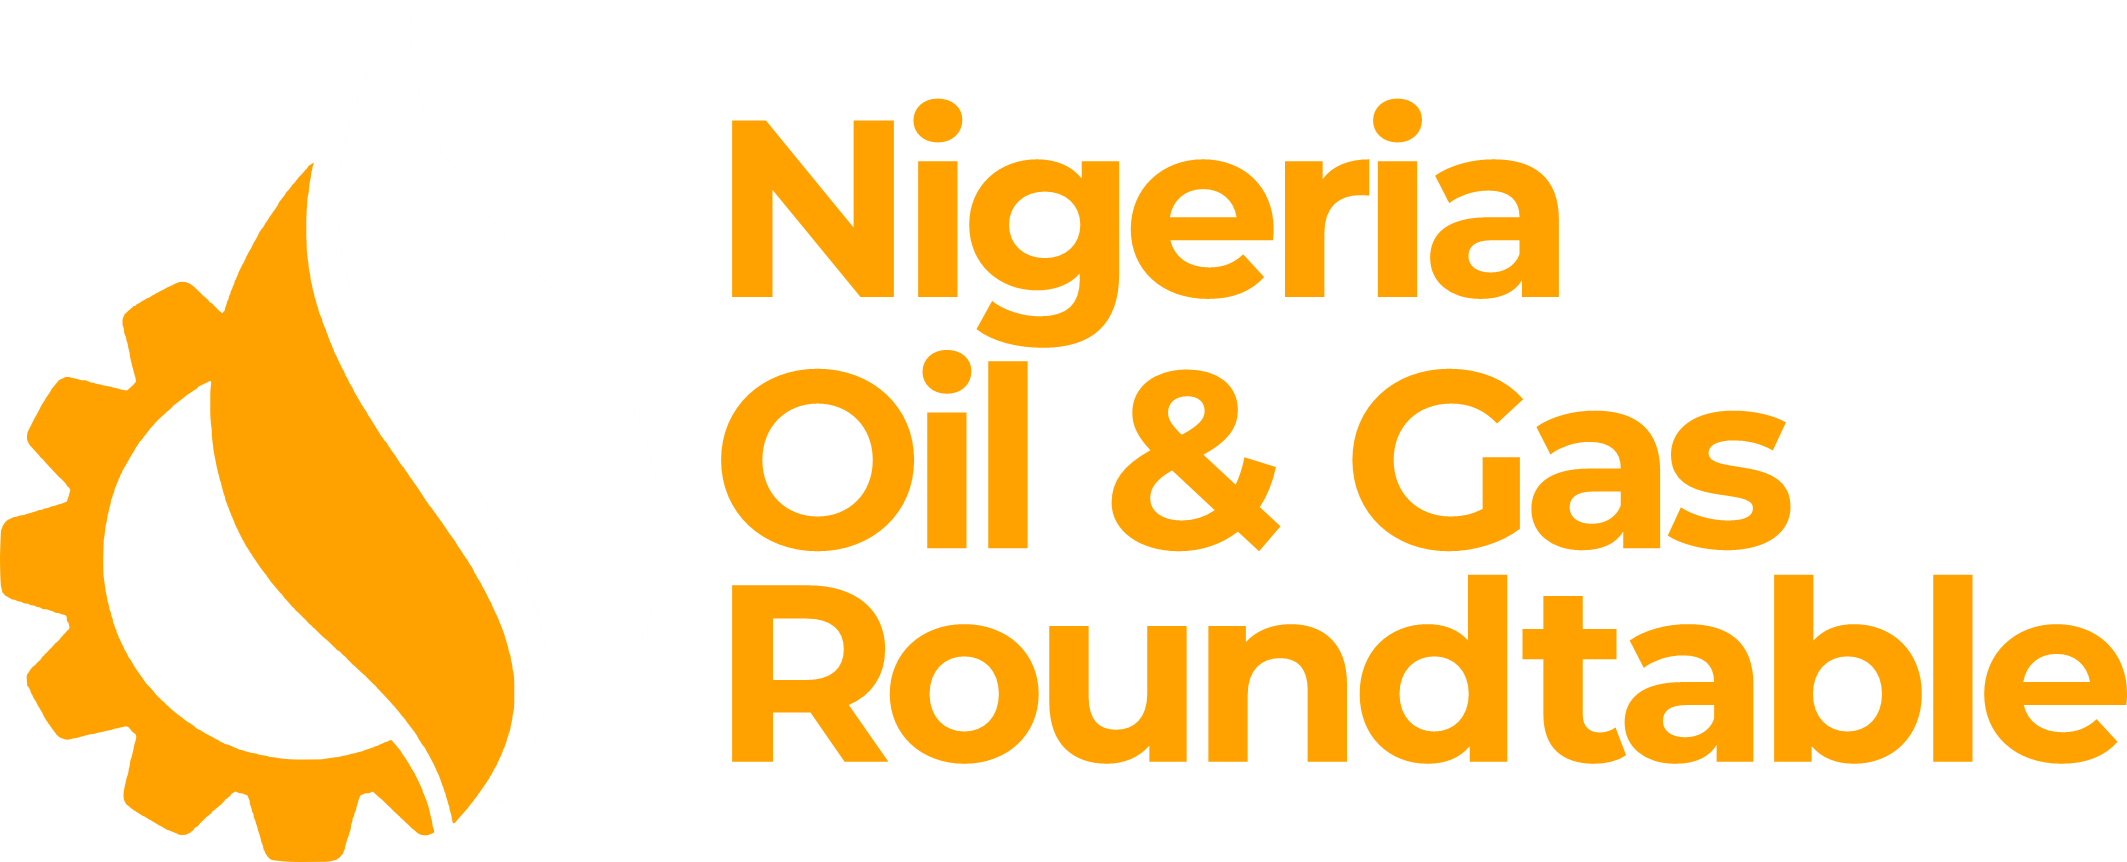
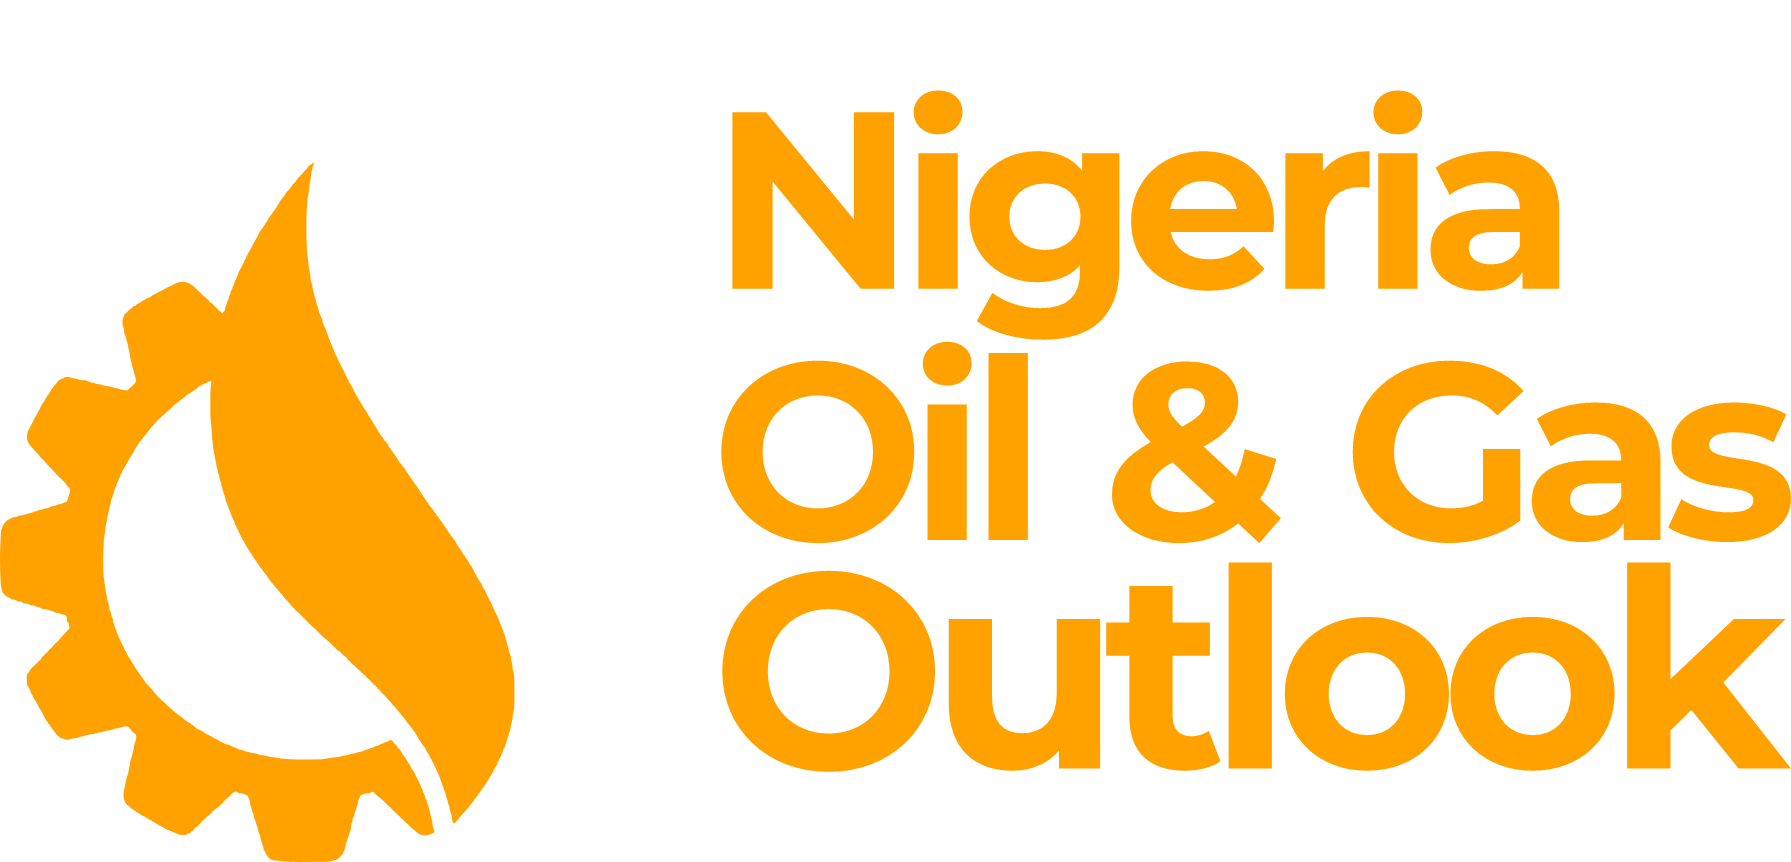
Edited title

diff --git a/index.html b/index.html
@@ -6,7 +6,7 @@
       name="viewport"
       content="width=device-width, initial-scale=1, shrink-to-fit=no"
     />
-    <title>NIGERIA OIL & GAS ROUNDTABLE 2021</title>
+    <title>NIGERIA OIL & GAS OUTLOOK 2021</title>
     <meta
       name="description"
       content="For all kind of construction company website"
@@ -16,7 +16,7 @@
       content="road, business, construction, company, industrial, building, transport, corporate, lagos transport, lagos, transportation, airway, secureid, transport fest, waterways"
     />
 
-    <link href="ico/N-2.png" rel="shortcut icon" />
+    <link href="ico/N-1.png" rel="shortcut icon" />
     <link
       rel="stylesheet"
       href="https://cdnjs.cloudflare.com/ajax/libs/font-awesome/4.7.0/css/font-awesome.min.css"
@@ -58,7 +58,7 @@
           <!-- end site-menu -->
         </div>
         <!-- end show-mobile -->
-        <small>© 2020 NIGERIA OIL & GAS ROUNDTABLE </small>
+        <small>© 2020 NIGERIA OIL & GAS OUTLOOK </small>
       </div>
       <!-- end inner -->
     </aside>
@@ -96,7 +96,7 @@
       <div class="container">
         <div class="col-md-6">
           <h2>
-            WELCOME TO <b class="transparent">NIGERIA OIL & GAS</b> ROUNDTABLE
+            WELCOME TO <b class="transparent">NIGERIA OIL & GAS</b> OUTLOOK
             2021
           </h2>
           <p>OCTOBER 2021</p>
@@ -146,7 +146,7 @@
               the passing of the Petroleum Industry Bill and a renewed
               commitment to natural gas from the leadership, We are excited to
               announce our flagship Oil & Gas event tagged,
-              <span class="transparent">Nigeria Oil & Gas Roundtable</span>, The
+              <span class="transparent">Nigeria Oil & Gas Outlook</span>, The
               event will unite thought leaders, operators, regulators and
               stakeholders in the Oil & Gas value chain.
             </p>
@@ -173,11 +173,11 @@
               </p>
 
               <p>
-                <span class="transparent">Nigeria Oil & Gas Roundtable</span>
+                <span class="transparent">Nigeria Oil & Gas Outlook</span>
                 will play host to key government officials together with
                 industry stakeholders at the one-day event of key learnings,
                 networking and deal-making.
-                <span class="transparent">NOGR 2021</span> puts strategy, policy
+                <span class="transparent">NOGO 2021</span> puts strategy, policy
                 and thought leadership at the heart of its session ensuring a
                 delegate audience of key decision makers and c-suite directors.
               </p>
@@ -831,7 +831,7 @@
           <div class="col-md-6 first">
             <h1>
               WHO ATTENDS
-              <b class="transparent">NIGERIA OIL & GAS</b> ROUNDTABLE
+              <b class="transparent">NIGERIA OIL & GAS</b> OUTLOOK
             </h1>
             <ul>
               <li>Industry Regulators</li>
@@ -871,7 +871,7 @@
           <div class="col-md-12">
             <h1>
               <b class="transparent">WHY</b> YOU SHOULD ATTEND
-              <b class="transparent">NIGERIA OIL & GAS</b> ROUNDTABLE
+              <b class="transparent">NIGERIA OIL & GAS</b> OUTLOOK
             </h1>
           </div>
           <div class="col-md-4">
@@ -992,13 +992,13 @@
             </p>
             <p>
               Aligning our sponsors organization brand with
-              <span class="transparent">Nigeria Oil & Gas Roundtable</span> is a
+              <span class="transparent">Nigeria Oil & Gas Outlook</span> is a
               smart and effective way to engage global audiences and demonstrate
               expertise.
             </p>
             <p>
               The delegate and speakers
-              <span class="transparent">Nigeria Oil & Gas Roundtable</span>
+              <span class="transparent">Nigeria Oil & Gas Outlook</span>
               attracts are unparalleled in their level of relevance and
               influence. Please download the Sponsorship brochure and get in
               touch.
